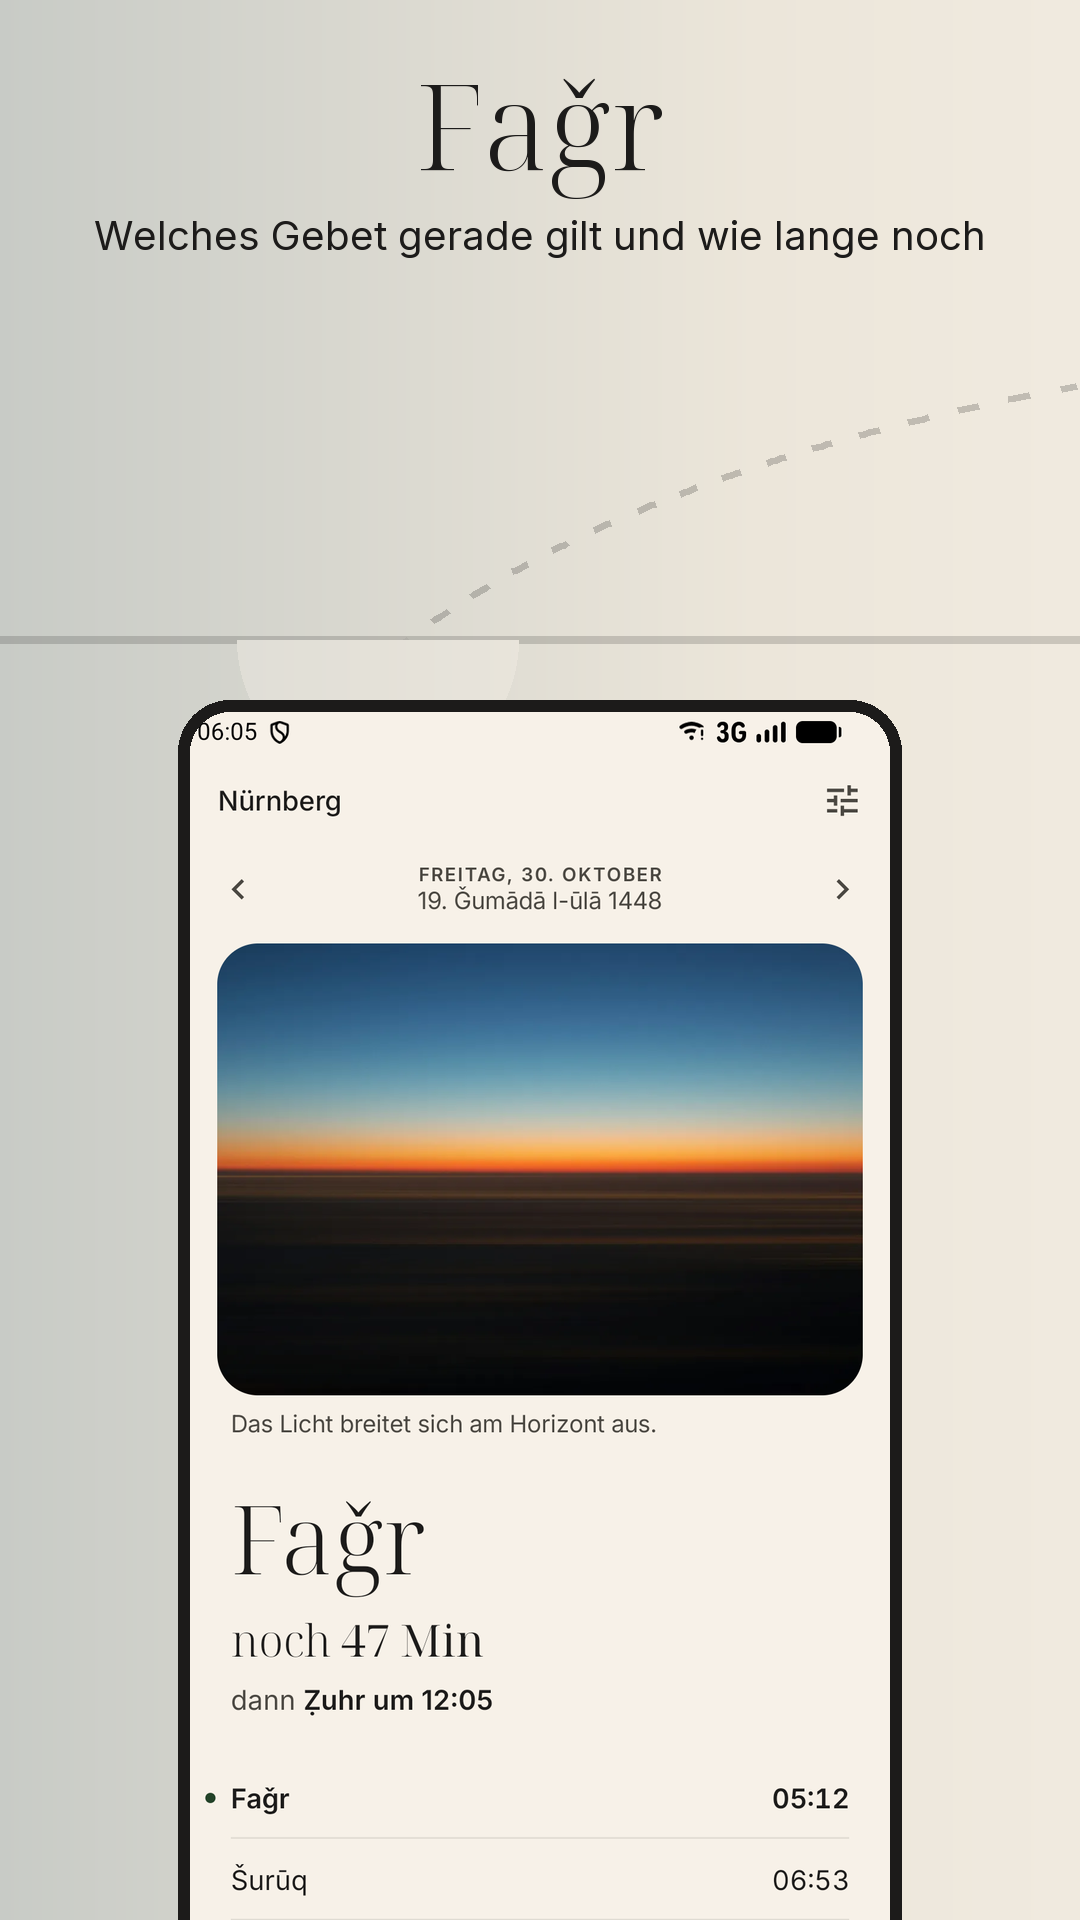
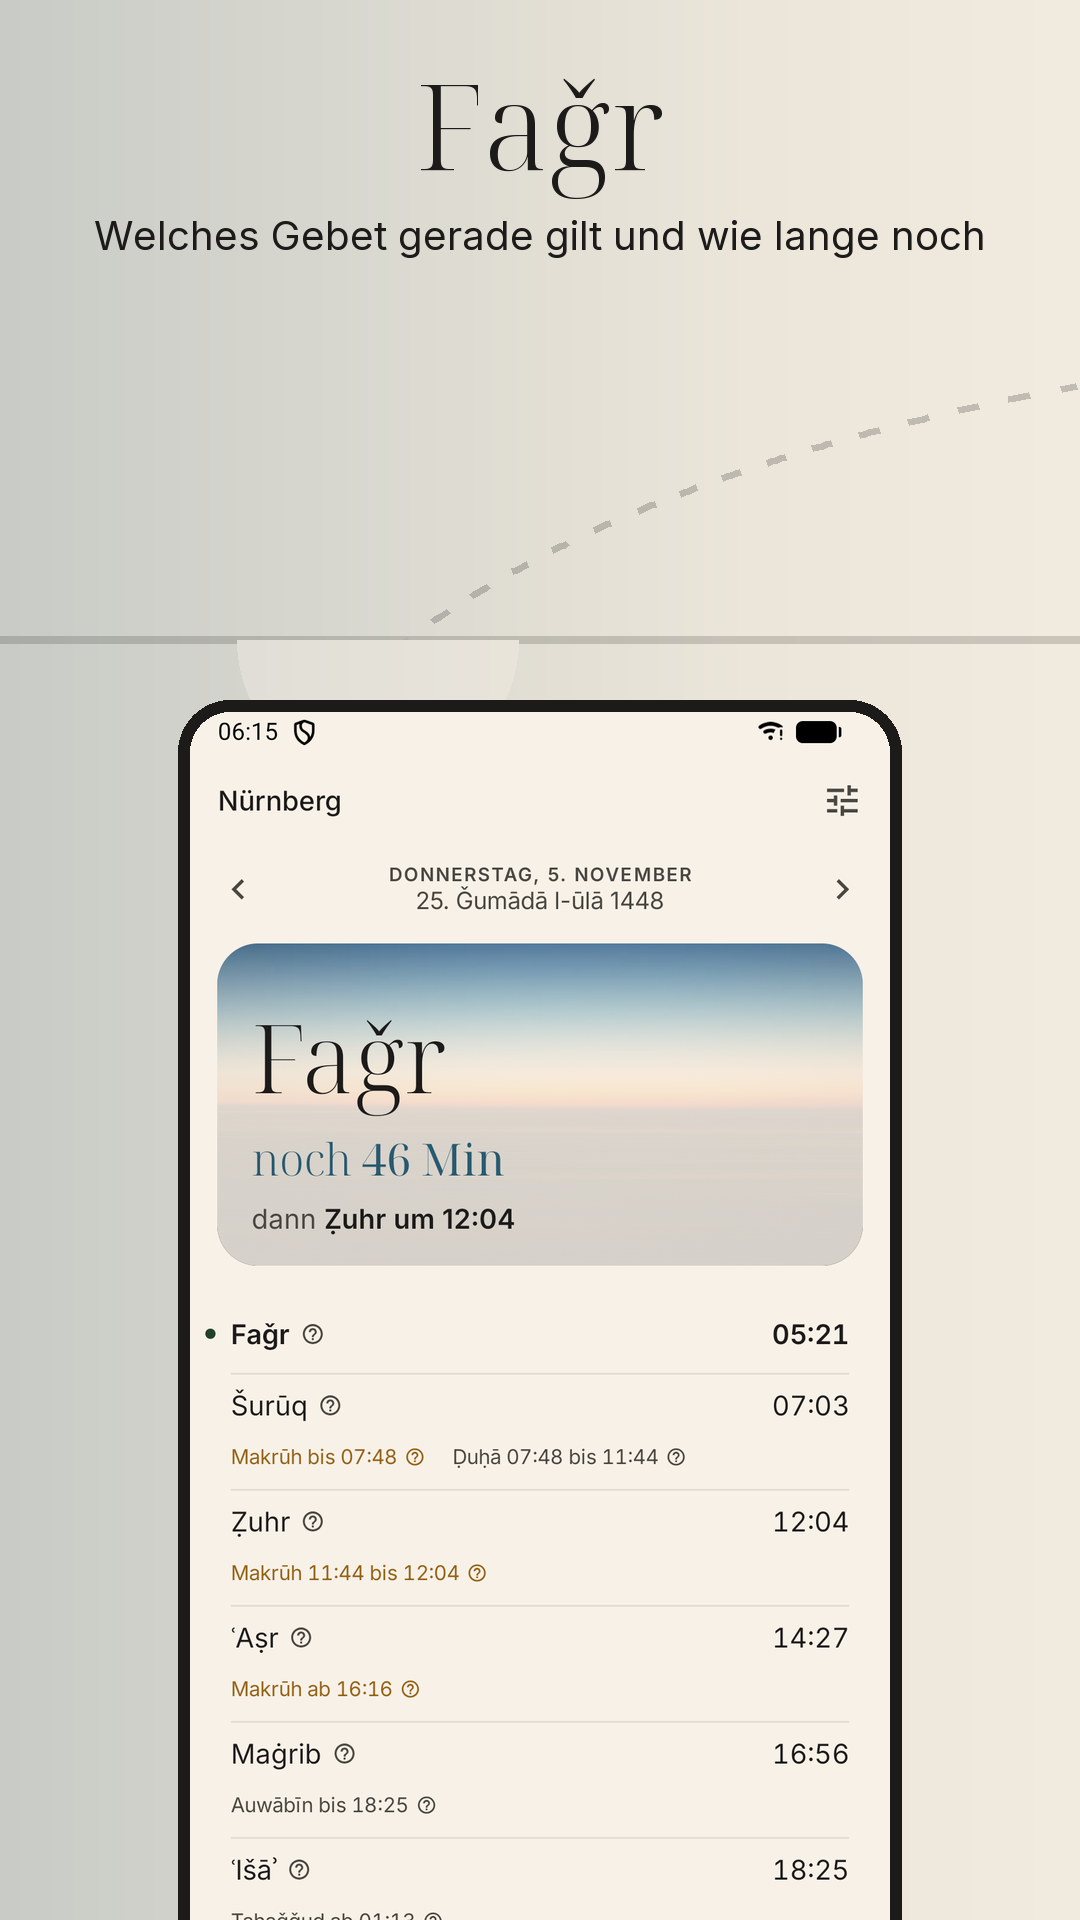
docs(store): 0.4.0: neue Screenshots, Beschreibung, Console-Texte
- Screenshots 01, 03, 05 neu aufgenommen (Release-Fassung, Nürnberg,
  05.11.2026); Uhr-Einsatz im Bild 03 höher, damit er kein Widget verdeckt.
- Beschreibung de ergänzt (Aḏān, Widgets, Kompass; Akku-Satz sagt jetzt,
  dass der Aḏān einen Wiedergabedienst braucht). en neu übersetzt, ohne
  Gedankenstriche, DMG, mit Hinweis, dass die App deutsch ist.
- playstore/console-0.4.0.md: Erklärung zum Vordergrunddienst, Wecker-
  Begründung, Datensicherheit, Ausrollen.

diff --git a/playstore/make_screenshots.py b/playstore/make_screenshots.py
@@ -165,9 +165,10 @@ def compose(raw: Image.Image, panel: Image.Image, title: str, line: str,
         ring = Image.new("RGBA", (g + 2 * RAHMEN, g + 2 * RAHMEN), (0, 0, 0, 0))
         ImageDraw.Draw(ring).ellipse([0, 0, g + 2 * RAHMEN - 1, g + 2 * RAHMEN - 1], fill=farben["rahmen"])
         ring.paste(rund, (RAHMEN, RAHMEN), maske)
-        # Rechts auf dem leeren Himmel des Startbildschirms, ueber dem Widget:
-        # weiter unten verdeckte die Uhr dessen Zeitenzeile.
-        im.alpha_composite(ring, (BREITE - ring.size[0] - 60, 1060))
+        # Rechts auf dem leeren Himmel des Startbildschirms, ueber den Widgets:
+        # weiter unten verdeckte die Uhr deren Zeilen (seit 0.4.0 stehen dort
+        # zwei Widgets, das kleine sitzt hoeher als frueher das grosse).
+        im.alpha_composite(ring, (BREITE - ring.size[0] - 60, 720))
     return im.convert("RGB")
 
 

diff --git a/playstore/console-0.4.0.md b/playstore/console-0.4.0.md
@@ -1,0 +1,55 @@
+# Play Console für 0.4.0 (24): was nur du eintragen kannst
+
+Gebaut und geprüft am 05.11.2026 (Zweig `feat/app-design-review`, Merge `46714f0` und Folge-Commits):
+
+| | Telefon | Uhr |
+|---|---|---|
+| Version | 0.4.0 (versionCode 24) | unverändert 0.1.18 (1018), kein Upload nötig |
+| Bundle | `app/build/outputs/bundle/onlineRelease/app-online-release.aab` (21 MB) | |
+| Signatur | Upload-Schlüssel CN=Gebetszeiten (apksigner geprüft) | |
+| Was ist neu | `fastlane/metadata/android/<sprache>/changelogs/24.txt` | |
+| Screenshots | 01, 03, 05 neu (Heute bei Faǧr, Widgets, Heute bei ʿIšāʾ), 02 und 04 unverändert | |
+
+Am Emulator mit Release-Builds geprüft: Update 0.3.0 → 0.4.0 (Ort, amtliche Zeiten, Widget bleiben; „transparent“ wird 45 %; keine neue Ersteinrichtung), Aḏān-Probe als Vordergrunddienst `mediaPlayback` mit Audiofokus, Stopp per Lautstärketaste, Widget hinzufügen mit eigener Einstellung, kein Absturz.
+
+## 1. Neue Berechtigung: Vordergrunddienst „Medienwiedergabe“
+
+Neu im Manifest: `FOREGROUND_SERVICE` und `FOREGROUND_SERVICE_MEDIA_PLAYBACK` (Dienst `de.gebetszeiten.adhan.AdhanService`). Play verlangt dafür unter **App-Inhalte › Berechtigungen für Dienste im Vordergrund** eine Erklärung.
+
+- **Art:** Medienwiedergabe (Media playback)
+- **Beschreibung (en, so verlangt):**
+  > The app plays the call to prayer (Aḏān) at the start of a prayer time, only if the user has switched this on (it is off by default). Playback runs as a media playback foreground service with a visible notification and a Stop button, for the length of the recording (about 4 minutes), and ends by itself. The user can stop it at any time with the notification button or a volume key.
+- **Auswirkung, wenn verweigert/aufgeschoben:** Der Aḏān würde bei gesperrtem Bildschirm abgebrochen oder gar nicht abgespielt.
+- **Video:** Play fragt meist nach einem Link (YouTube „nicht gelistet“ reicht). Inhalt: Einstellungen › Aḏān einschalten, „Probe hören“ antippen, Meldung mit „Stoppen“ zeigen, Bildschirm aus, Wiedergabe läuft weiter, Stoppen.
+
+## 2. Exakte Wecker (`USE_EXACT_ALARM`), bekannt seit 0.2.0
+
+Unverändert, aber bei jedem Update prüfbar. Falls Play nachfragt:
+> Prayer reminders must fire at the exact official prayer time; a delay of even a few minutes means the reminder arrives after the prayer window has started or, for Faǧr, after it has ended. The app schedules one exact alarm per prayer transition and does not poll.
+
+## 3. Datensicherheit
+
+Keine neuen Daten. Die Aḏān-Datei, die man selbst wählt, bleibt auf dem Gerät; die App liest sie nur über den System-Dateidialog. Das bestehende Formular gilt weiter.
+
+## 4. Store-Eintrag
+
+- Vollbeschreibung de/en ergänzt (Aḏān, Widgets, Kompass, Akku-Satz zum Wiedergabedienst). Die englische Fassung ist neu übersetzt und sagt, dass die App selbst deutsch ist.
+- Phone-Screenshots neu: `fastlane/metadata/android/de-DE/images/phoneScreenshots/`.
+- Bekannte Unschärfe: die Uhr im Screenshot 03 stammt vom 30.10. (Maġrib 17:06), das Telefon vom 05.11. (16:56).
+
+## 5. Rechte an der mitgelieferten Aufnahme
+
+`res/raw/adhan_almakki.ogg` (ʿAbd al-Karīm al-Makkī, YouTube 7FG4q8xyKvA). Nutzung mit Quellenangabe hat der Herausgeber am 05.11.2026 entschieden; die Quelle steht unter Einstellungen › Über. Eine schriftliche Erlaubnis liegt im Repository nicht vor. Bei einer Beschwerde: Aufnahme durch eine der frei lizenzierten ersetzen (`adhan-freie-aufnahmen.md` der Aḏān-Sitzung).
+
+## 6. Ausrollen
+
+1. AAB in den **internen Test** (läuft bereits) hochladen.
+2. **Pre-Launch-Bericht** abwarten und lesen (Abstürze, Darstellung, Bedienbarkeit).
+3. Auf dem eigenen Telefon aus dem Test-Track installieren und eine Nacht laufen lassen: Faǧr-Erinnerung und Aḏān bei gesperrtem Bildschirm, Widget am Morgen.
+4. Produktion **gestaffelt** (z. B. 20 %), ein bis zwei Tage Android Vitals beobachten, dann 100 %.
+
+## 7. Offen und nur auf echten Geräten prüfbar
+
+- Android 16 meldet für den Aḏān-Dienst bei automatischem Start aus dem Hintergrund „AudioHardening … would be ignored / would be muted“ (Warnung, noch nicht durchgesetzt). Auf dem Telefon prüfen, ob er bei gesperrtem Bildschirm hörbar ist.
+- Hersteller-Akkusparer (OnePlus/OPPO): Erinnerungen und Aḏān nach einer Nacht.
+- Lautstärketaste bei dunklem Bildschirm (auf dem Emulator ohne Wirkung).
